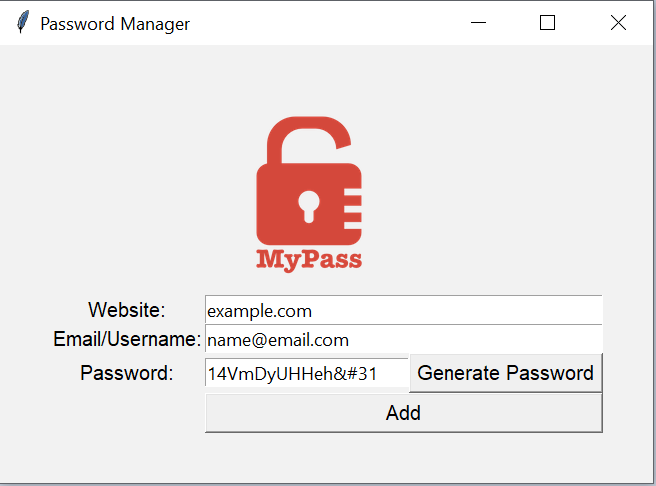
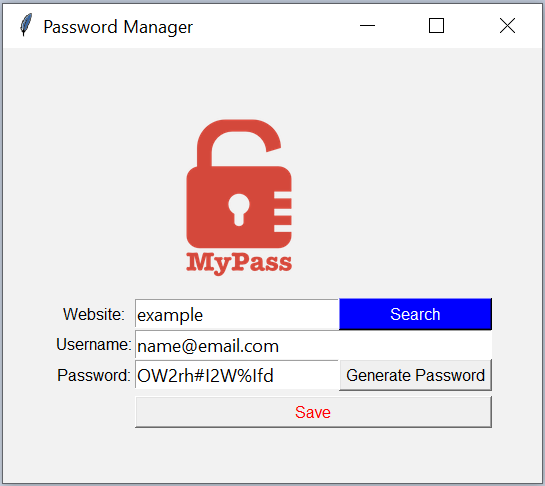
update save to json and incorporate search

Changed region(s): [[0.0624, 0.216, 0.9046, 0.8025], [0.0, 0.0, 0.9982, 1.0], [0.2495, 0.7407, 0.9358, 0.8951]]

diff --git a/main.py b/main.py
@@ -1,4 +1,5 @@
 import pyperclip
+import json
 import tkinter as tk
 from tkinter import messagebox
 from random import choice, randint, shuffle
@@ -8,15 +9,18 @@ from ctypes import windll
 windll.shcore.SetProcessDpiAwareness(1)
 
 BG_COLOR = "#F2F2F2"
-email = "name@email.com"
+default_user = "name@email.com"
+data_json = "data.json"
 
-
-# ---------------------------- PASSWORD GENERATOR ------------------------------- #
 
 def generate_password():
-    letters = ['a', 'b', 'c', 'd', 'e', 'f', 'g', 'h', 'i', 'j', 'k', 'l', 'm', 'n', 'o', 'p', 'q', 'r', 's', 't', 'u', 'v', 'w', 'x', 'y', 'z', 'A', 'B', 'C', 'D', 'E', 'F', 'G', 'H', 'I', 'J', 'K', 'L', 'M', 'N', 'O', 'P', 'Q', 'R', 'S', 'T', 'U', 'V', 'W', 'X', 'Y', 'Z']
+    """Generates a random password using the available characters"""
+    letters = ['a', 'b', 'c', 'd', 'e', 'f', 'g', 'h', 'i', 'j', 'k', 'l', 'm', 'n', 'o', 'p', 'q', 'r', 's', 't',
+               'u', 'v', 'w', 'x', 'y', 'z', 'A', 'B', 'C', 'D', 'E', 'F', 'G', 'H', 'I', 'J', 'K', 'L', 'M', 'N',
+               'O', 'P', 'Q', 'R', 'S', 'T', 'U', 'V', 'W', 'X', 'Y', 'Z']
+
     numbers = ['0', '1', '2', '3', '4', '5', '6', '7', '8', '9']
-    symbols = ['!', '#', '$', '%', '&', '(', ')', '*', '+']
+    symbols = ['!', '#', '$', '%', '&', '@']
 
     pass_letters = [choice(letters) for _ in range(randint(8, 10))]
     pass_symbols = [choice(symbols) for _ in range(randint(2, 4))]
@@ -30,28 +34,59 @@ def generate_password():
     pyperclip.copy(password)
 
 
-# ---------------------------- SAVE PASSWORD ------------------------------- #
-
 def save():
-    site = web_entry.get()
-    name = user_entry.get()
+    """Saves the password entry to a json file."""
+    site = web_entry.get().lower()
     password = pass_entry.get()
+    new_data = {
+        site: {
+            "username": default_user,
+            "password": password,
+        }
+    }
 
     if len(site) == 0 or len(password) == 0:
         messagebox.showinfo(title="Oops", message="Please don't leave empty fields.")
     else:
-        is_ok = messagebox.askokcancel(title=site, message=f"These are the details entered: \nUser: {name}"
-                                                   f"\nPassword: {password} \nIs it ok to save?")
-        if is_ok:
-            with open("data.txt", "a") as f:
-                phrase = f"{site} | {name} | {password}\n"
-                f.write(phrase)
-            reset_entries()
+        try:
+            with open(data_json, "r") as data_file:
+                data = json.load(data_file)
+        except(FileNotFoundError, json.decoder.JSONDecodeError):
+            with open(data_json, "w") as data_file:
+                json.dump(new_data, data_file, indent=4)
+        else:
+            data.update(new_data)
+            with open(data_json, "w") as data_file:
+                json.dump(data, data_file, indent=4)
+    reset_entries()
+
+
+def search():
+    """Looks for the entered website in the json file."""
+    site = web_entry.get().lower()
+    if len(site) == 0:
+        messagebox.showinfo(title="Oops", message="Please enter a site name.")
+    else:
+        try:
+            with open(data_json) as data_file:
+                data = json.load(data_file)
+        except(FileNotFoundError, json.decoder.JSONDecodeError):
+            messagebox.showerror(title="Oops", message=f"Cannot find '{data_json}'.")
+        else:
+            if site in data:
+                user = data[site]['username']
+                password = data[site]['password']
+                messagebox.showinfo(title=site, message=f"Username:  {user}\nPassword:  {password}")
+                pyperclip.copy(password)
+            else:
+                messagebox.showerror(title="Oops", message="Site not found.")
+    reset_entries()
 
 
 def reset_entries():
+    """Sets all the entry values back to the default"""
     web_entry.delete(0, tk.END)
-    user_entry.config(text=email)
+    user_entry.config(text=default_user)
     pass_entry.delete(0, tk.END)
 
 
@@ -71,7 +106,7 @@ canvas.grid(row=0, column=1)
 web_label = tk.Label(text="Website:", bg=BG_COLOR, font="bold")
 web_label.grid(row=1, column=0)
 
-user_label = tk.Label(text="Email/Username:", bg=BG_COLOR, font="bold")
+user_label = tk.Label(text="Username:", bg=BG_COLOR, font="bold")
 user_label.grid(row=2, column=0)
 
 pass_label = tk.Label(text="Password:", bg=BG_COLOR, font="bold")
@@ -80,12 +115,12 @@ pass_label.grid(row=3, column=0)
 
 # Entries
 web_entry = tk.Entry()
-web_entry.grid(row=1, column=1, columnspan=2, sticky="EW")
+web_entry.grid(row=1, column=1, sticky="EW")
 web_entry.focus()
 
 user_entry = tk.Entry()
 user_entry.grid(row=2, column=1, columnspan=2, sticky="EW")
-user_entry.insert(0, email)  # index where to insert text
+user_entry.insert(0, default_user)  # index where to insert text
 
 pass_entry = tk.Entry()
 pass_entry.grid(row=3, column=1, sticky="EW")
@@ -95,7 +130,10 @@ pass_entry.grid(row=3, column=1, sticky="EW")
 pass_button = tk.Button(text="Generate Password", font="bold", command=generate_password)
 pass_button.grid(row=3, column=2, sticky="EW")
 
-add_button = tk.Button(text="Add", font="bold", width=35, command=save)
-add_button.grid(row=4, column=1, columnspan=2, sticky="EW")
+add_button = tk.Button(text="Save", font="bold", fg='red', width=35, command=save)
+add_button.grid(row=4, column=1, columnspan=2, pady=5, sticky="EW")
+
+search_button = tk.Button(text="Search", font="bold", fg="white", bg="blue", command=search)
+search_button.grid(row=1, column=2, sticky="EW")
 
 window.mainloop()
